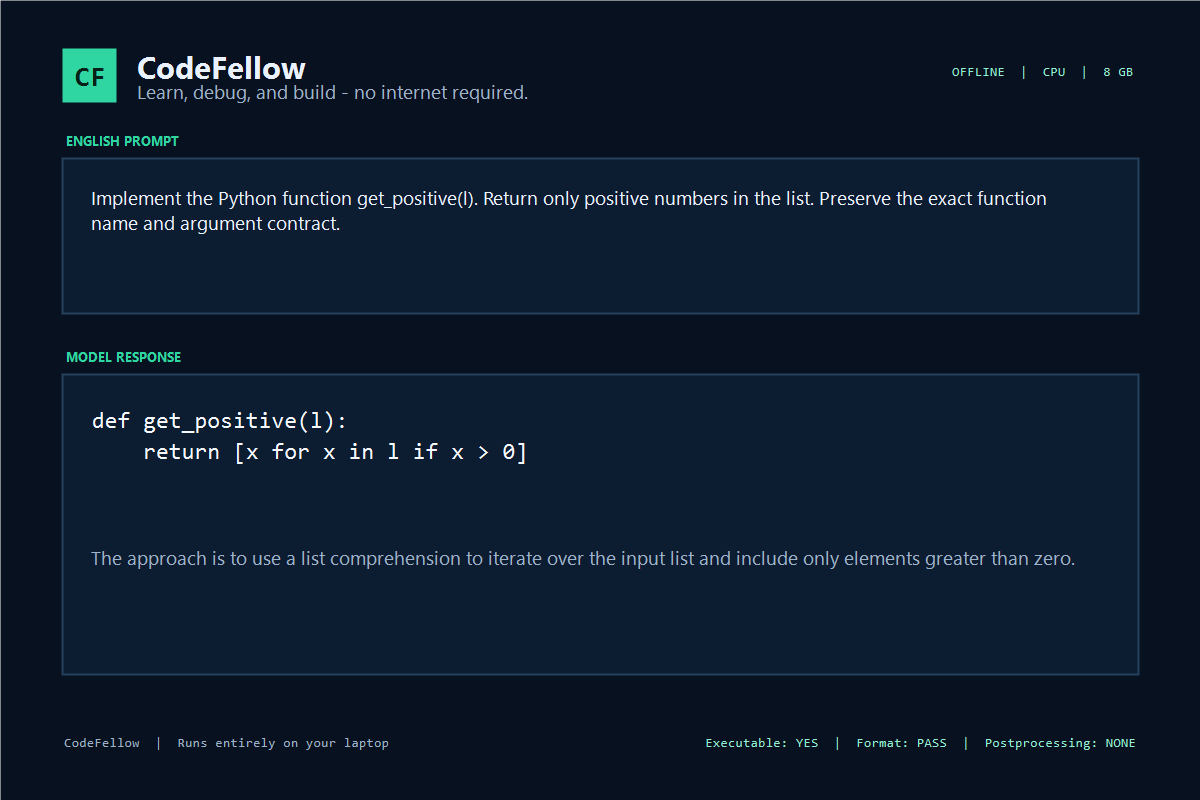
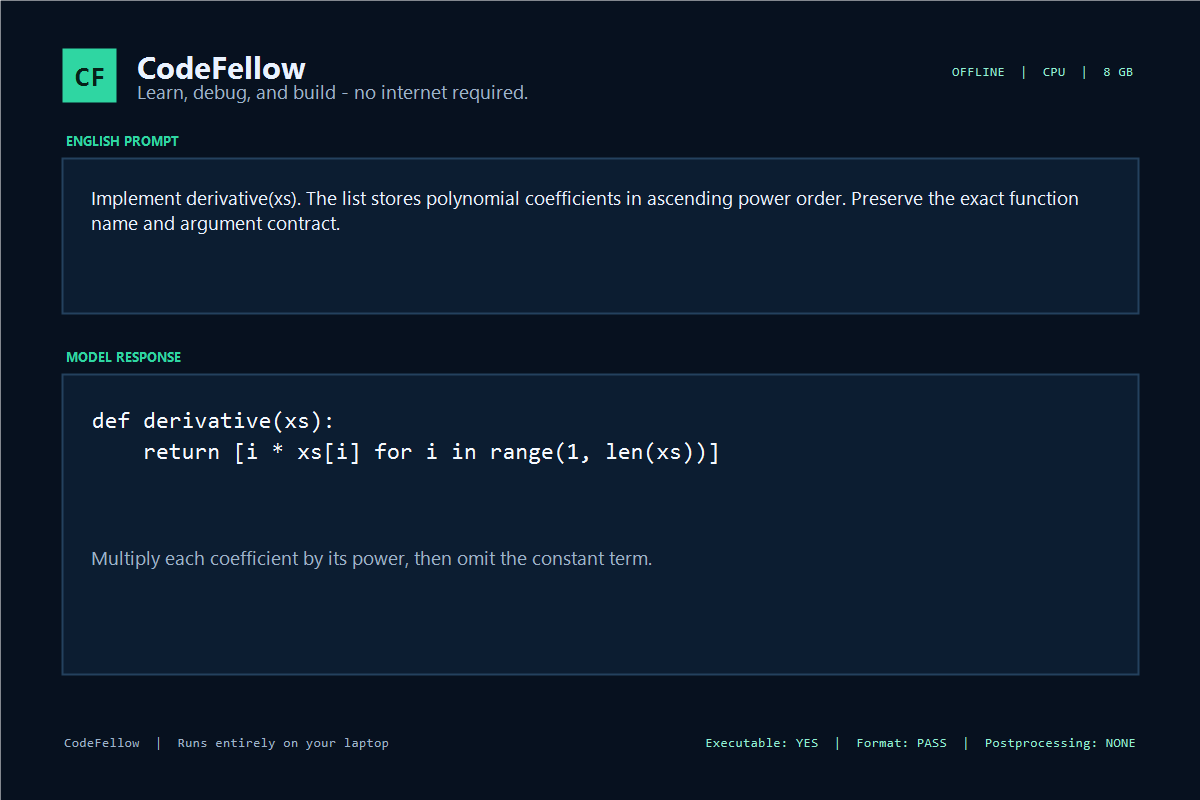
Sync declared prompts with Devpost

Changed region(s): [[0.1542, 0.2188, 0.8942, 0.2812], [0.0617, 0.6875, 0.8942, 0.7188], [0.1233, 0.5, 0.5858, 0.5938]]

diff --git a/docs/demo/english.html b/docs/demo/english.html
@@ -31,12 +31,12 @@
     <div class="offline">● OFFLINE · CPU · 8 GB</div>
   </header>
   <p class="label">English prompt</p>
-  <section class="card prompt">Implement the Python function <b>get_positive(l)</b>. Return only positive numbers in the list. Preserve the exact function name and argument contract.</section>
+  <section class="card prompt">Implement the Python function <b>derivative(xs)</b>. The list stores polynomial coefficients in ascending power order. Preserve the exact function name and argument contract.</section>
   <p class="label">Model response</p>
   <section class="card">
-    <pre><span class="kw">def</span> <span class="fn">get_positive</span>(l):
-    <span class="kw">return</span> [x <span class="kw">for</span> x <span class="kw">in</span> l <span class="kw">if</span> x &gt; <span class="num">0</span>]</pre>
-    <p class="explanation">The approach is to use a list comprehension to iterate over the input list and include only elements greater than zero.</p>
+    <pre><span class="kw">def</span> <span class="fn">derivative</span>(xs):
+    <span class="kw">return</span> [i * xs[i] <span class="kw">for</span> i <span class="kw">in</span> range(<span class="num">1</span>, len(xs))]</pre>
+    <p class="explanation">Multiply each coefficient by its power, then omit the constant term.</p>
   </section>
   <footer><span>CodeFellow · Runs entirely on your laptop</span><span>Executable ✓ &nbsp; Format contract ✓ &nbsp; No postprocessing ✓</span></footer>
 </main>

diff --git a/docs/demo/kiswahili.html b/docs/demo/kiswahili.html
@@ -31,7 +31,7 @@
     <div class="offline">● OFFLINE · CPU · 8 GB</div>
   </header>
   <p class="label">Kiswahili + code-switching</p>
-  <section class="card prompt">Tekeleza Python <b>function is_palindrome(text)</b>. Angalia ikiwa string iliyopewa ni palindrome. Hifadhi function name na argument contract hizi bila kubadilisha.</section>
+  <section class="card prompt">Implement Python <b>function is_palindrome(text)</b>. Hifadhi exact function name na argument contract. Return True if string inasomeka sawa forward na backward.</section>
   <p class="label">Jibu la model</p>
   <section class="card">
     <pre><span class="kw">def</span> <span class="fn">is_palindrome</span>(text):

diff --git a/tools/render_demo_video.py b/tools/render_demo_video.py
@@ -197,21 +197,21 @@ def draw_terminal_chrome(draw: ImageDraw.ImageDraw, title: str) -> None:
 def scene_english_demo(draw: ImageDraw.ImageDraw, p: float) -> None:
     draw_brand(draw, "RECORDED LOCAL OUTPUT")
     draw_terminal_chrome(draw, "codefellow / english")
-    prompt = "Implement get_positive(l). Return only positive numbers."
+    prompt = "Implement derivative(xs). Return polynomial derivative coefficients."
     draw.text((74, 188), ">", font=F["code_bold"], fill=GREEN)
     typed = reveal(prompt, p / 0.32)
     draw.text((104, 188), typed, font=F["code"], fill=WHITE)
     response_p = clamp((p - 0.30) / 0.58)
     if response_p > 0:
         draw.text((74, 252), "CodeFellow", font=F["label"], fill=GREEN_LIGHT)
-        code = "def get_positive(l):\n    return [x for x in l if x > 0]"
+        code = "def derivative(xs):\n    return [i * xs[i] for i in range(1, len(xs))]"
         visible = reveal(code, response_p)
         draw.multiline_text((74, 294), visible, font=F["code"], fill=WHITE, spacing=12)
     if p > 0.78:
         draw_wrapped(
             draw,
             (74, 405),
-            "Uses a list comprehension and keeps values greater than zero.",
+            "Multiplies each coefficient by its power and omits the constant.",
             F["body_small"],
             MUTED,
             950,
@@ -224,7 +224,7 @@ def scene_english_demo(draw: ImageDraw.ImageDraw, p: float) -> None:
 def scene_kiswahili_demo(draw: ImageDraw.ImageDraw, p: float) -> None:
     draw_brand(draw, "RECORDED LOCAL OUTPUT")
     draw_terminal_chrome(draw, "codefellow / kiswahili + code-switching")
-    prompt = "Tekeleza function is_palindrome(text). Jibu kwa code block moja."
+    prompt = "Implement is_palindrome(text). Hifadhi exact function contract."
     draw.text((74, 188), ">", font=F["code_bold"], fill=GREEN)
     draw.text((104, 188), reveal(prompt, p / 0.34), font=F["code"], fill=WHITE)
     response_p = clamp((p - 0.32) / 0.54)

diff --git a/video/STORYBOARD.md b/video/STORYBOARD.md
@@ -8,7 +8,7 @@ It does not imply that a pre-rendered response is live.
 |---:|---|---|
 | 0:00–0:12 | Access problem | Data cost, unreliable internet, cloud dependency |
 | 0:12–0:22 | Product | Offline tutor, English/Kiswahili, ordinary laptop |
-| 0:22–0:37 | English demo | Audited `get_positive` prompt and executable response |
+| 0:22–0:37 | English demo | Audited `derivative` prompt and executable response |
 | 0:37–0:51 | Kiswahili demo | Audited `is_palindrome` prompt and executable response |
 | 0:51–1:07 | Debugging | Genuine `codefellow.py` run on `average_bug.js` |
 | 1:07–1:22 | Engineering | 10,000 examples, locked code, execution and mutation gates |
